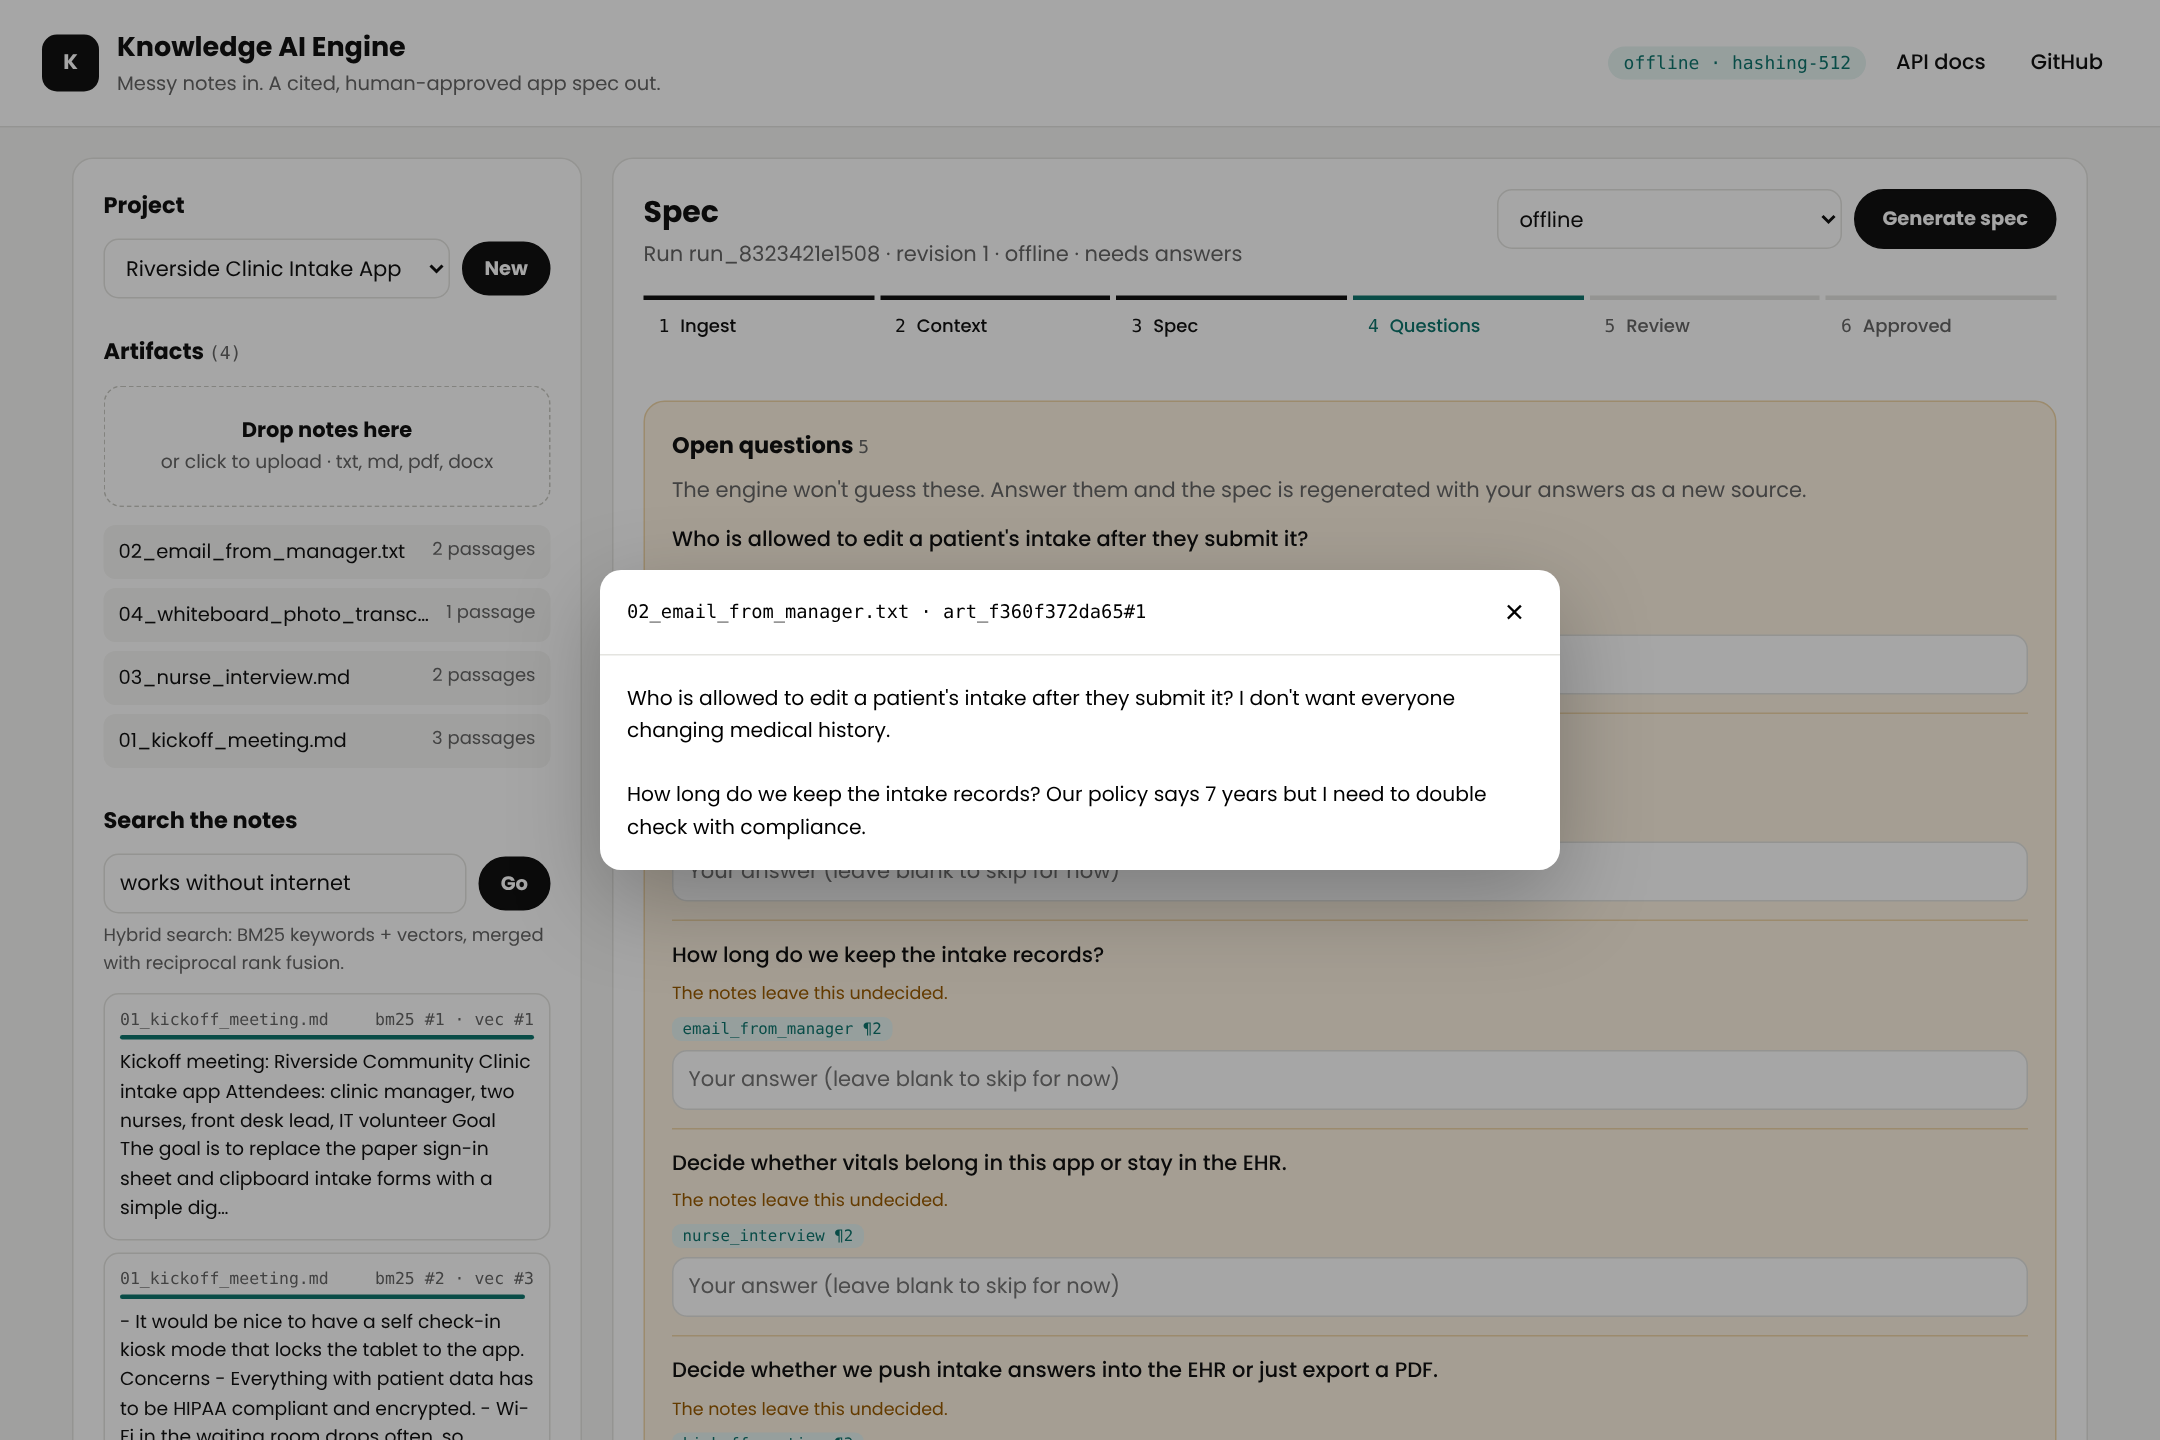
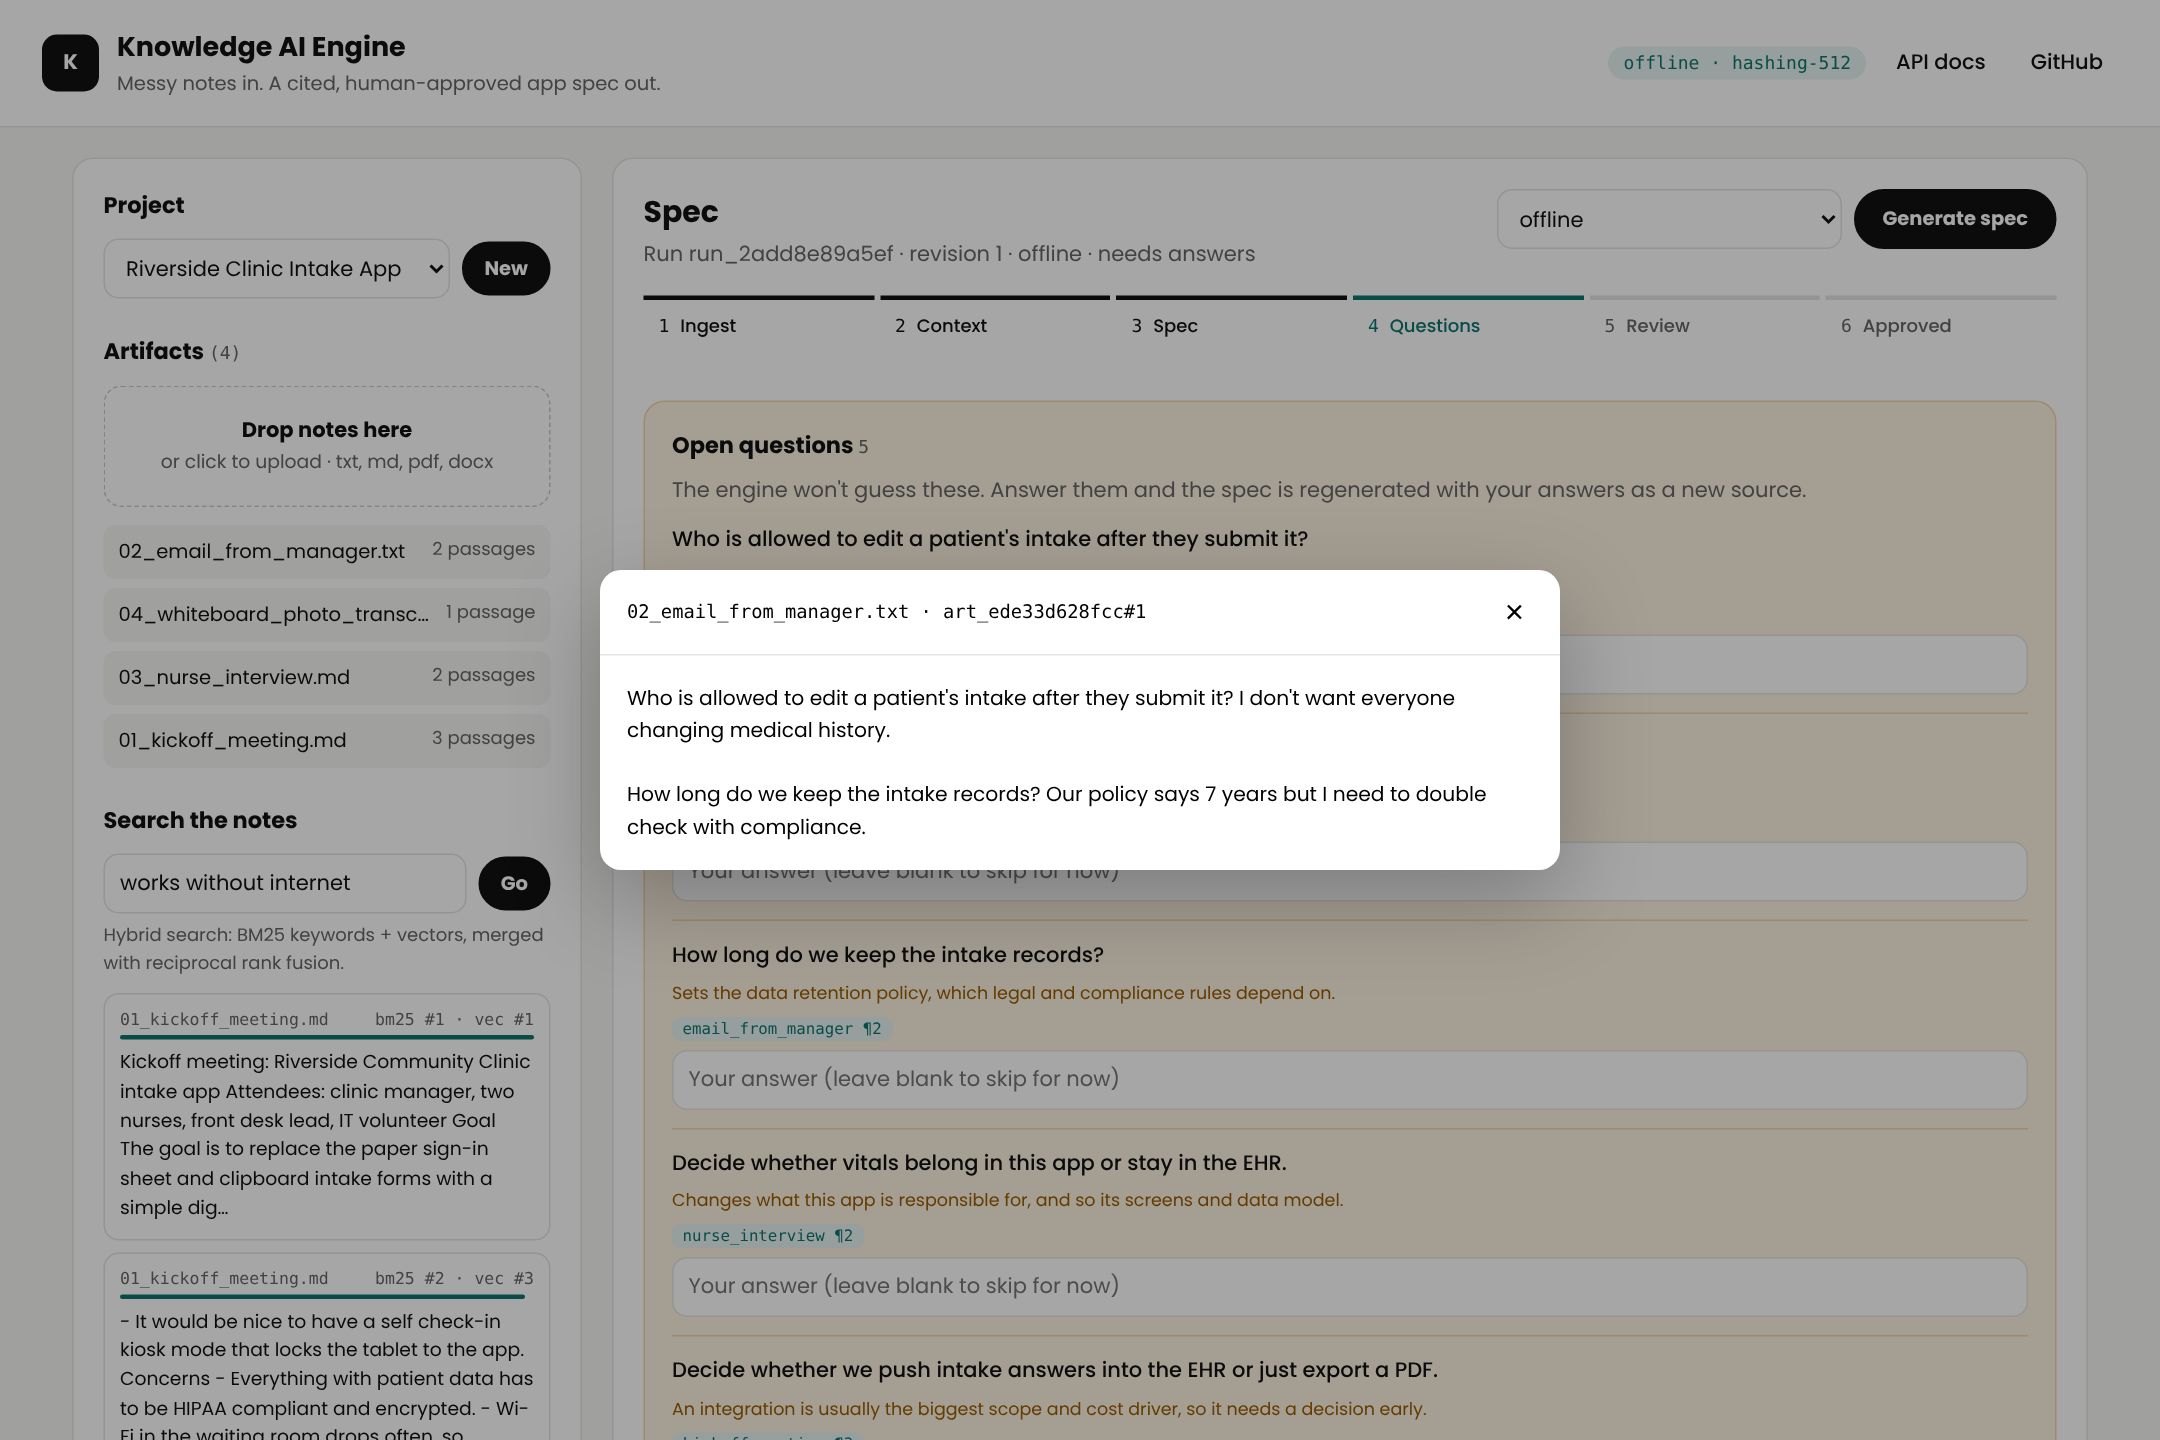
Explain why each open question matters
Questions from the notes now carry a topic-specific reason (access rights,
hosting, retention, scope, integrations, budget, language) instead of one
generic line. README screenshots refreshed.

diff --git a/engine/spec.py b/engine/spec.py
@@ -150,6 +150,34 @@ CONSTRAINT_RULES: list[tuple[str, str]] = [
 ]
 _UNCERTAIN_RE = re.compile(r"\b(tbd|not sure|unclear|unknown|undecided|to be decided|need to decide|open question|no idea|haven't decided)\b", re.I)
 
+# Why an open question matters, by topic. The first matching rule wins, so the more
+# specific topics (scope) come before broader ones (integration).
+QUESTION_REASONS: list[tuple[str, str]] = [
+    (r"\b(edit|change|allowed|permission|access|who can|who is allowed|approve|sign ?in|log ?in)\b",
+     "Decides who gets view and edit rights, which shapes the roles, screens and audit trail."),
+    (r"\b(belong|stay in|in scope|out of scope|this app or)\b",
+     "Changes what this app is responsible for, and so its screens and data model."),
+    (r"\b(how long|keep|retain|retention|delete|archive|years)\b",
+     "Sets the data retention policy, which legal and compliance rules depend on."),
+    (r"\b(ehr|integrat\w*|export|pdf|sync|api|import)\b",
+     "An integration is usually the biggest scope and cost driver, so it needs a decision early."),
+    (r"\b(host|aws|azure|gcp|cloud|server|on-prem\w*|deploy\w*)\b",
+     "Decides where the app runs and which security controls and costs apply."),
+    (r"\b(budget|cost|price|deadline|launch|pilot|timeline)\b",
+     "Affects what fits in the first version's budget and timeline."),
+    (r"\b(language|spanish|translat\w*|accessib\w*)\b",
+     "Affects every screen and form, so it is cheaper to decide before design starts."),
+]
+DEFAULT_REASON = "The notes raise this but don't settle it, so the spec leaves it open."
+
+
+def why_it_matters(question: str) -> str:
+    for pattern, reason in QUESTION_REASONS:
+        if re.search(pattern, question, re.I):
+            return reason
+    return DEFAULT_REASON
+
+
 GAP_CHECKS = [
     (
         lambda text: not re.search(r"\b(log ?in|sign ?in|sso|password|role|permission|access)\b", text, re.I),
@@ -207,7 +235,7 @@ def offline_spec(title: str, chunks: list[dict], answered: dict[str, str]) -> Sp
                 qid = question_id(q)
                 if qid not in answered and qid not in questions:
                     questions[qid] = OpenQuestion(
-                        id=qid, question=q, why_it_matters="The notes leave this undecided.", sources=[_ref(chunk)]
+                        id=qid, question=q, why_it_matters=why_it_matters(q), sources=[_ref(chunk)]
                     )
                 continue
 

diff --git a/tests/test_spec.py b/tests/test_spec.py
@@ -113,3 +113,14 @@ def test_run_needs_artifacts(engine):
     p = engine.create_project("Empty", "t")
     with pytest.raises(Conflict):
         engine.start_run(p["id"], "t")
+
+
+def test_open_questions_explain_why_they_matter():
+    from engine.spec import DEFAULT_REASON, why_it_matters
+
+    assert "edit rights" in why_it_matters("Who is allowed to edit a patient's intake after they submit it?")
+    assert "where the app runs" in why_it_matters("Host on the clinic's existing AWS account?")
+    assert "retention" in why_it_matters("How long do we keep the intake records?")
+    assert "responsible for" in why_it_matters("Decide whether vitals belong in this app or stay in the EHR.")
+    assert "integration" in why_it_matters("Decide whether we push intake answers into the EHR or just export a PDF.")
+    assert why_it_matters("What color should the logo be?") == DEFAULT_REASON
